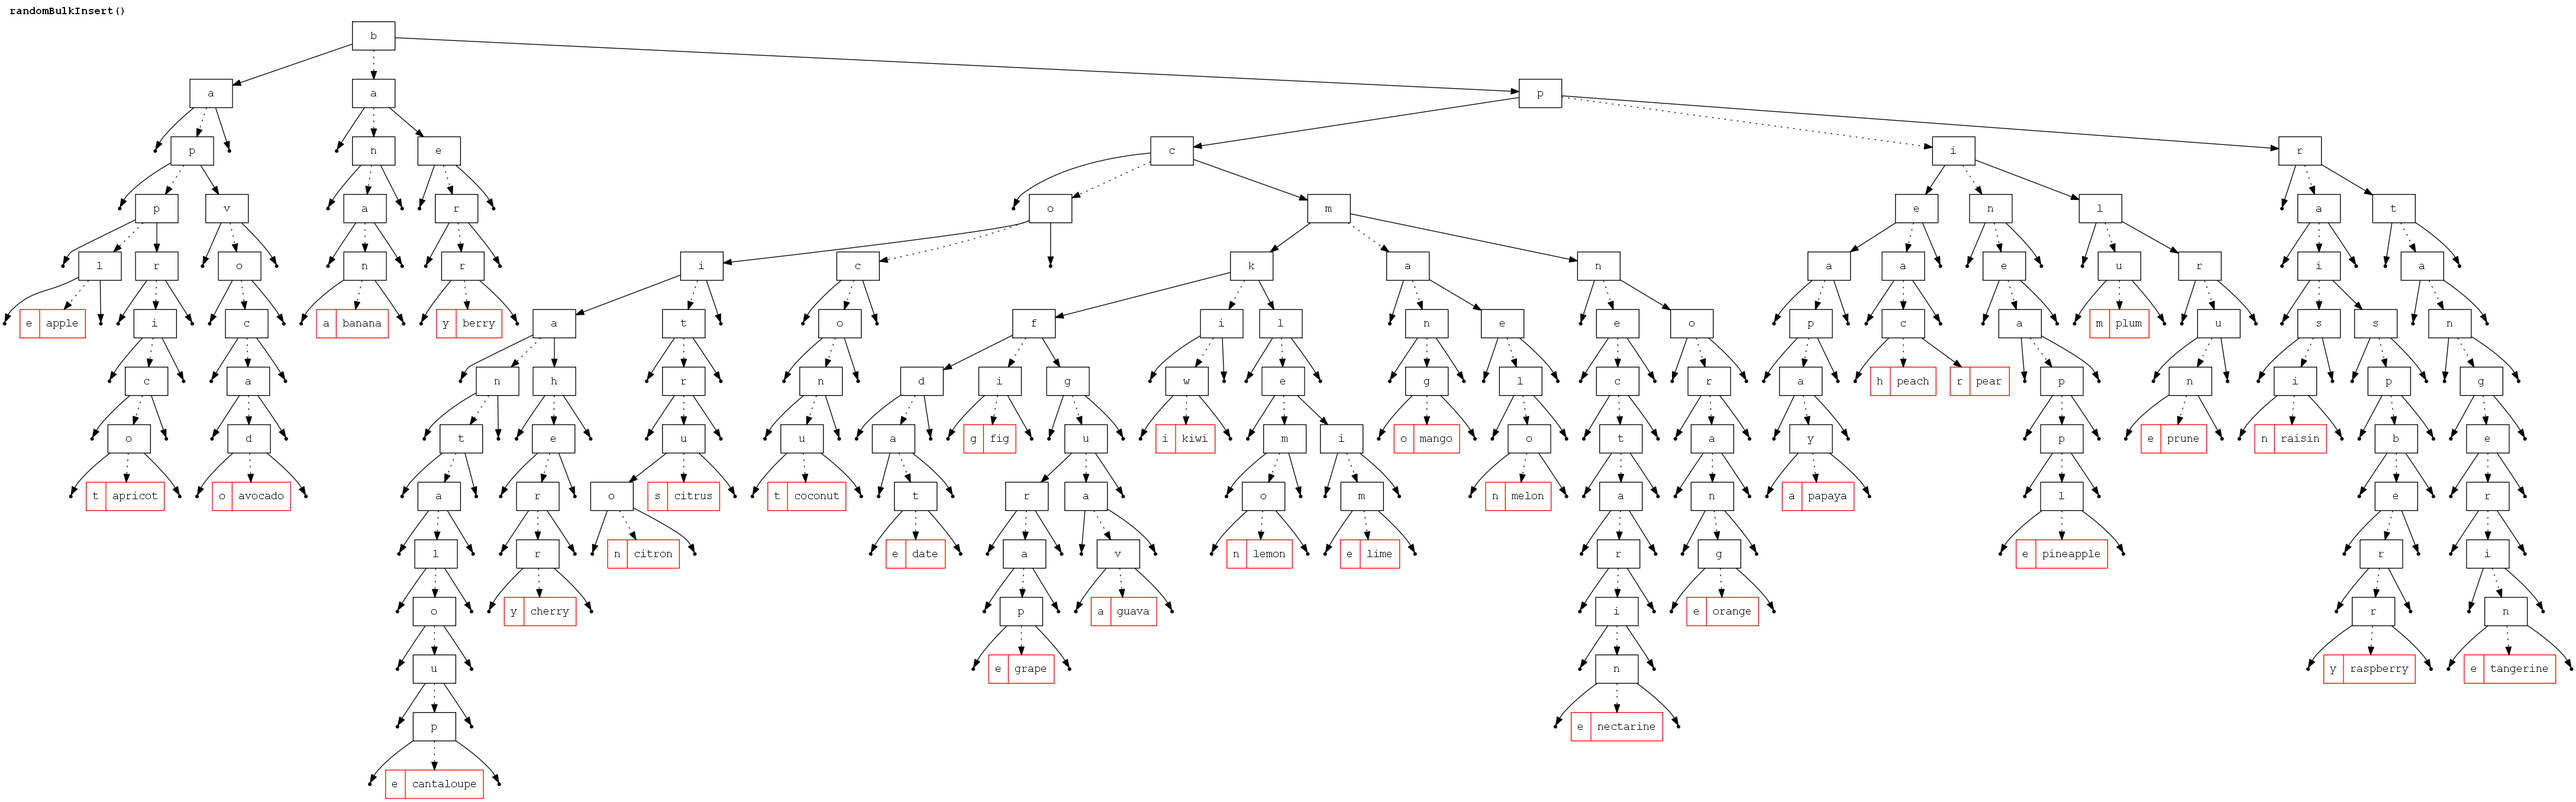
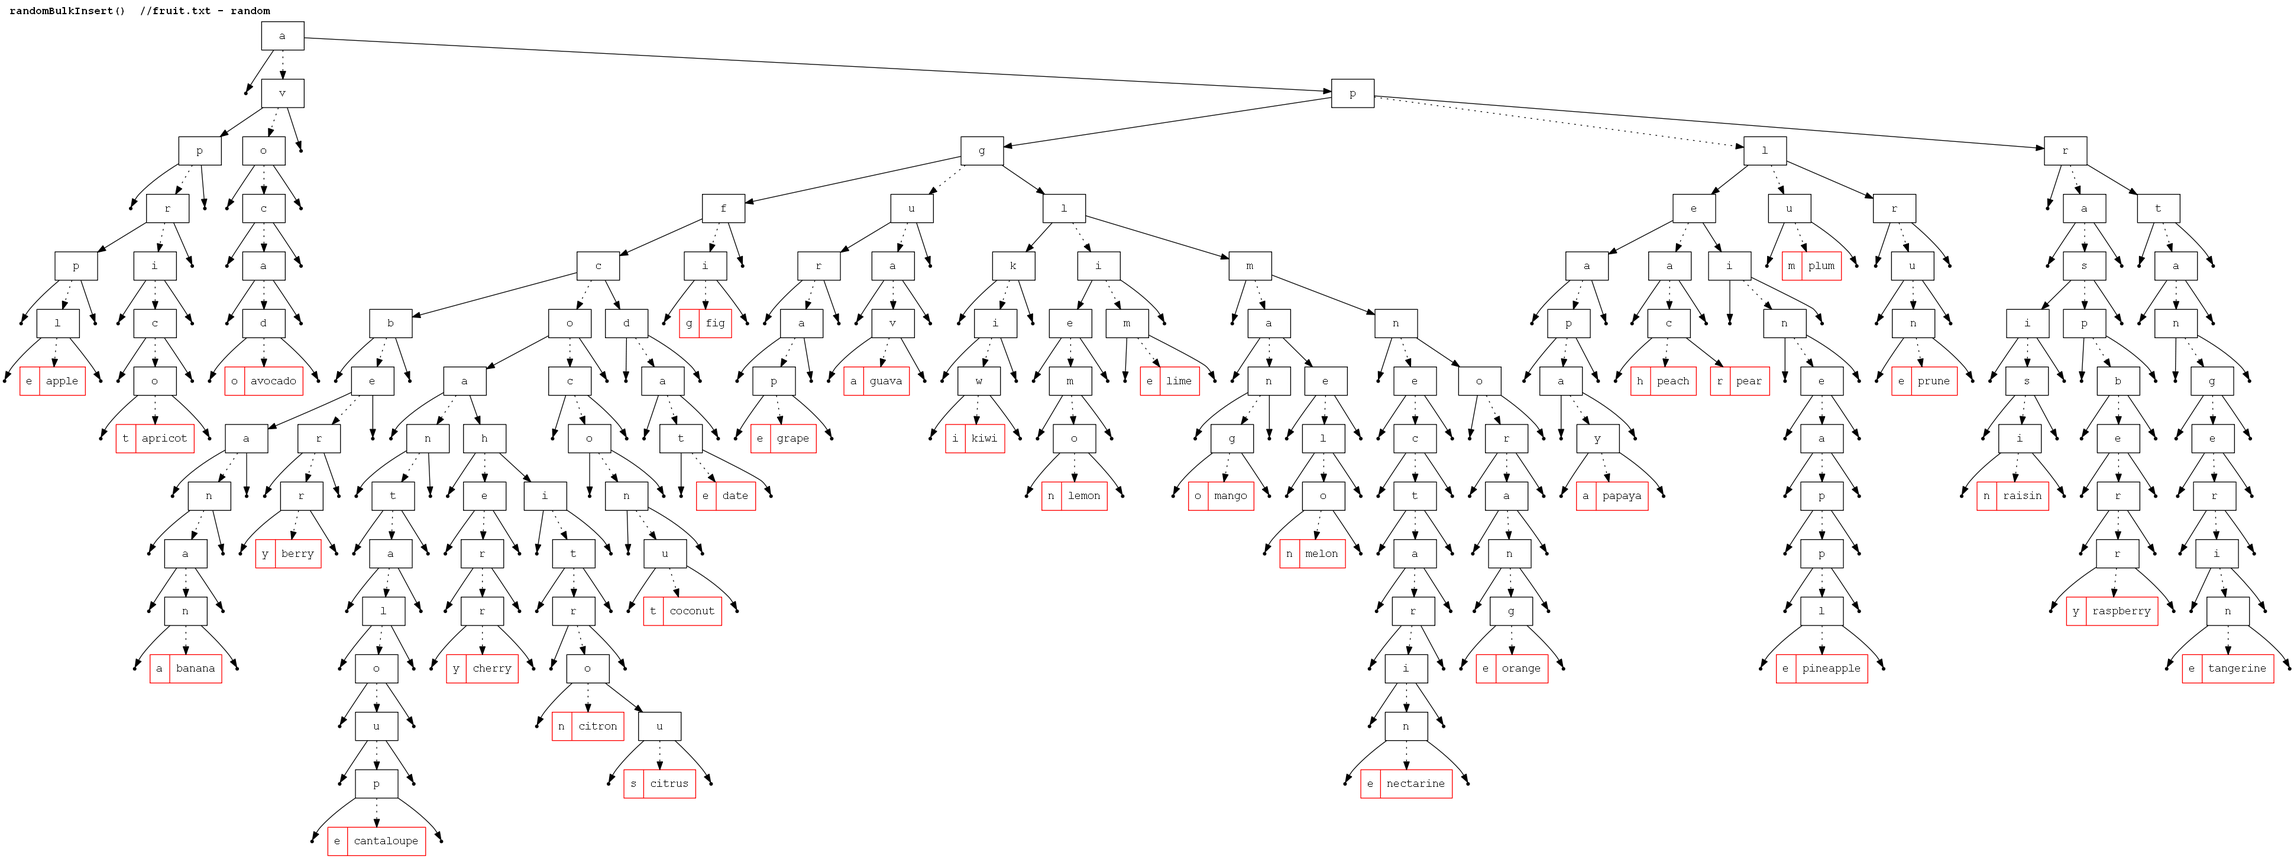
Different insert-mode screenshots

diff --git a/README.md b/README.md
@@ -10,12 +10,16 @@ A Ternary Search Tree in Haxe 3.1+. [**WIP**]
 Based on Dr. Dobbs article ([http://www.drdobbs.com/database/ternary-search-trees/184410528](http://www.drdobbs.com/database/ternary-search-trees/184410528)).
 
 -----
-###Internal repr.
+###Internal repr. (inserting `fruit.txt`)
 
- - **TSTree.randomBulkInsert()**
+ - **TSTree.insert() - sequential**
+
+![](insert.png)
+	
+ - **TSTree.randomBulkInsert() - random**
 
 ![](randomBulkInsert.png)
-
- - **TSTree.bulkInsert()**
+	
+ - **TSTree.bulkInsert() - balanced**
 
 ![](bulkInsert.png)
